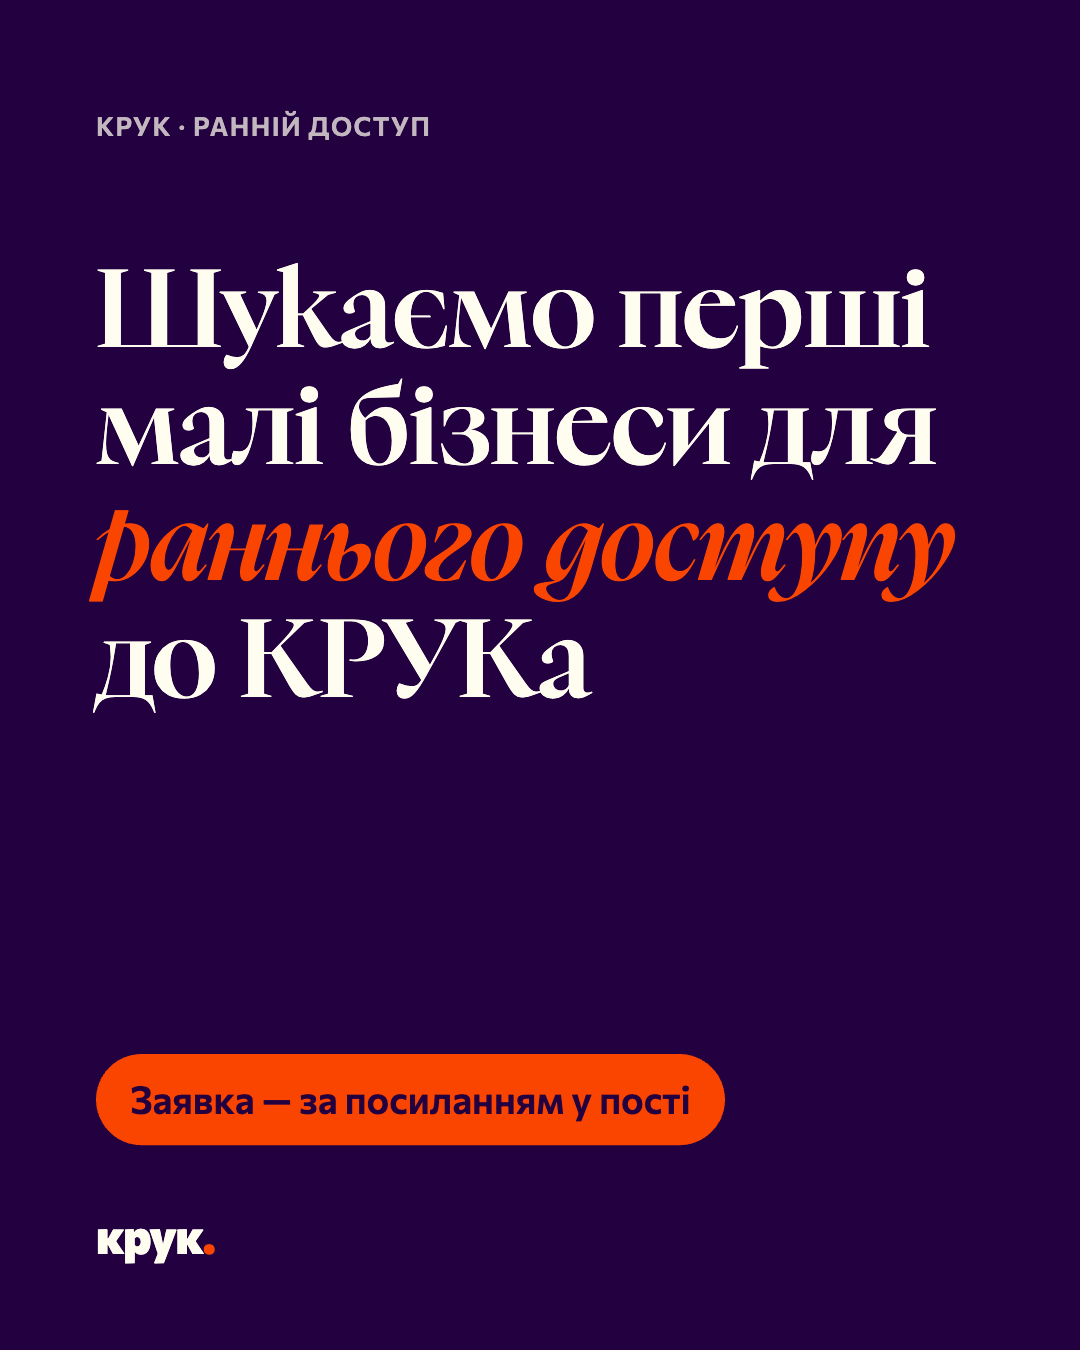
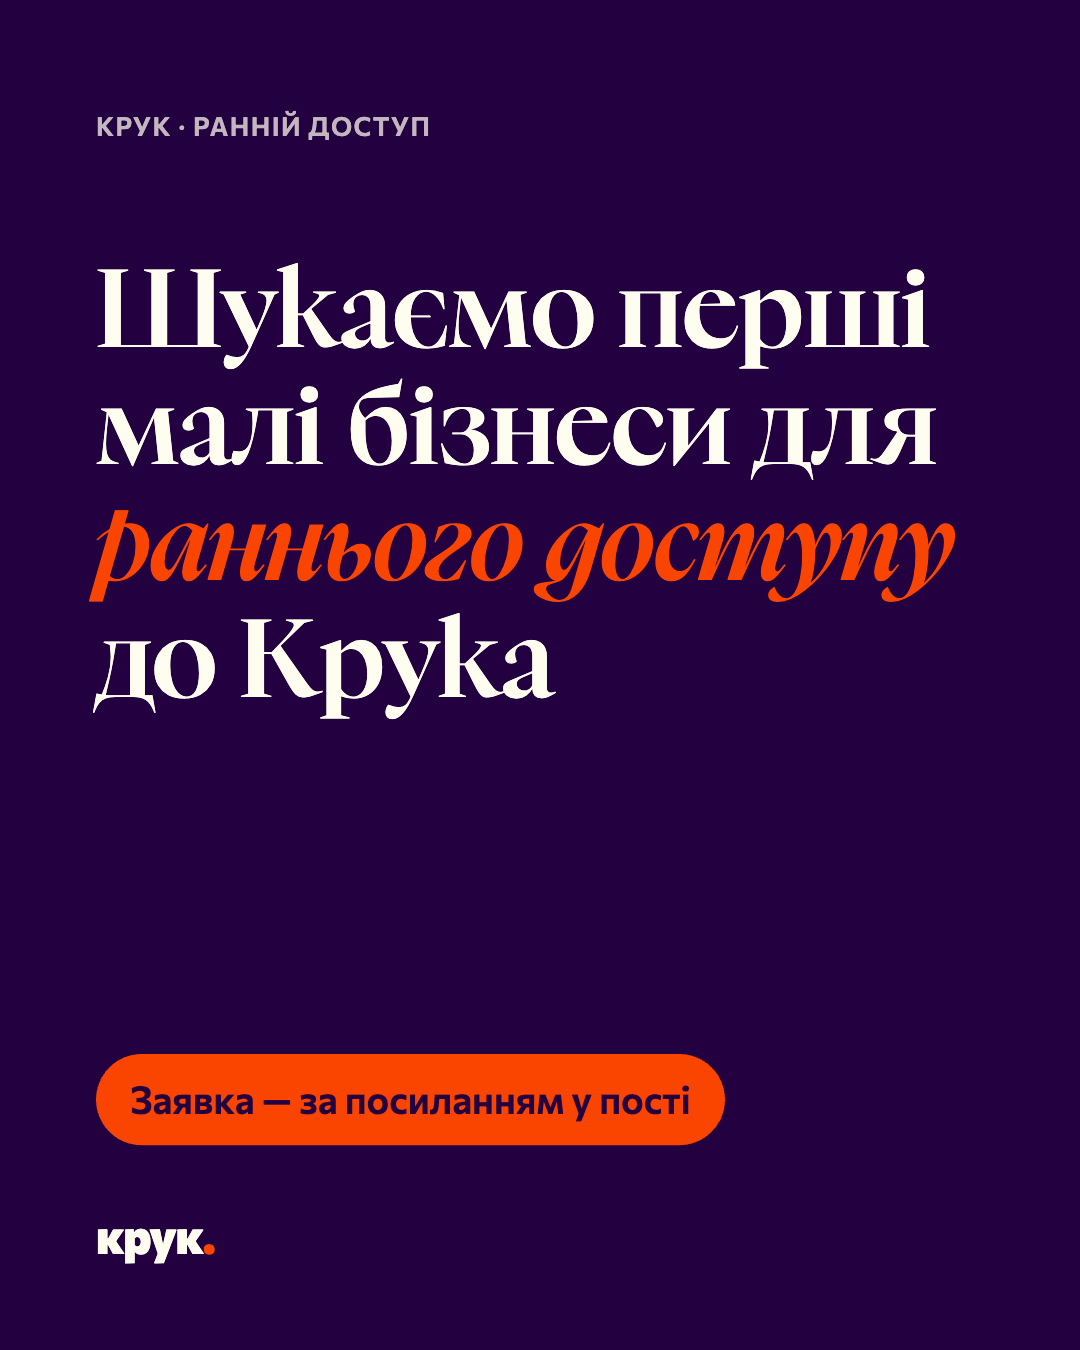
Візуали: назва «Крук» замість «КРУК» (як у брендбуці)

Changed region(s): [[0.3056, 0.4356, 0.55, 0.5289]]

diff --git a/tools/visuals/index.html b/tools/visuals/index.html
@@ -147,22 +147,22 @@ const SETS = [
     { title: "Потім — «а про що писати?»" },
     { title: "А потім сторінка мовчить ще один тиждень." },
     { title: "Це не проблема дисципліни. Це проблема *системи.*" },
-    { title: "КРУК допомагає готувати контент українською та планувати публікації.", bigLogo: true },
+    { title: "Крук допомагає готувати контент українською та планувати публікації.", bigLogo: true },
     { title: "Щоб ваш маркетинг не залежав від *одного вільного вечора.*" },
-    { title: "Ранній доступ до КРУКа", cta: "Посилання в профілі" },
+    { title: "Ранній доступ до Крука", cta: "Посилання в профілі" },
   ]},
-  { name: "ig2", theme: "lilac", eyebrow: "КРУК · ранній доступ", slides: [
+  { name: "ig2", theme: "lilac", eyebrow: "Крук · ранній доступ", slides: [
     { title: "Вам не потрібен *ще один* контент-план, який лежатиме в Google Docs.", size: 100, titleTop: 300 },
   ]},
   { name: "ig2-story", theme: "paper", w: 1080, h: 1920, eyebrow: null, slides: [
-    { title: "Не ще один контент-план. *Шлях до публікації.*", titleTop: 80, size: 80, maxTitleH: 320, flow: ["Ідея", "!КРУК", "Готовий пост українською", "Запланована публікація"], cta: "Ранній доступ — посилання в профілі" },
+    { title: "Не ще один контент-план. *Шлях до публікації.*", titleTop: 80, size: 80, maxTitleH: 320, flow: ["Ідея", "!Крук", "Готовий пост українською", "Запланована публікація"], cta: "Ранній доступ — посилання в профілі" },
   ]},
   { name: "ig3", theme: "paper", eyebrow: EB, slides: [
-    { title: "КРУК не має перетворити ваш бізнес на *безликий AI-акаунт.*", swipe: true },
+    { title: "Крук не має перетворити ваш бізнес на *безликий AI-акаунт.*", swipe: true },
     { title: "У малого бізнесу вже є голос: досвід, клієнти, продукт, погляд." },
     { title: "Але цей голос часто не доходить до публікації." },
     { title: "Бо власник зайнятий тим, що тримає бізнес у русі." },
-    { title: "КРУК не замінює *ваші думки.*" },
+    { title: "Крук не замінює *ваші думки.*" },
     { title: "Він допомагає перетворювати їх на зрозумілий контент українською." },
     { title: "І підтримувати регулярність через планування публікацій." },
     { title: "Ваш бізнес. Ваш голос. *Менше ручної рутини.*" },
@@ -171,8 +171,8 @@ const SETS = [
   { name: "fb1", theme: "butter", eyebrow: EB, slides: [
     { title: "Чому сторінки малого бізнесу замовкають, навіть коли продукт *хороший?*", body: "Ідея → готовий пост → запланована публікація. Так має виглядати регулярний маркетинг." },
   ]},
-  { name: "fb2", theme: "ink", eyebrow: "КРУК · ранній доступ", slides: [
-    { title: "Шукаємо перші малі бізнеси для *раннього доступу* до КРУКа", cta: "Заявка — за посиланням у пості" },
+  { name: "fb2", theme: "ink", eyebrow: "Крук · ранній доступ", slides: [
+    { title: "Шукаємо перші малі бізнеси для *раннього доступу* до Крука", cta: "Заявка — за посиланням у пості" },
   ]},
 ];
 
